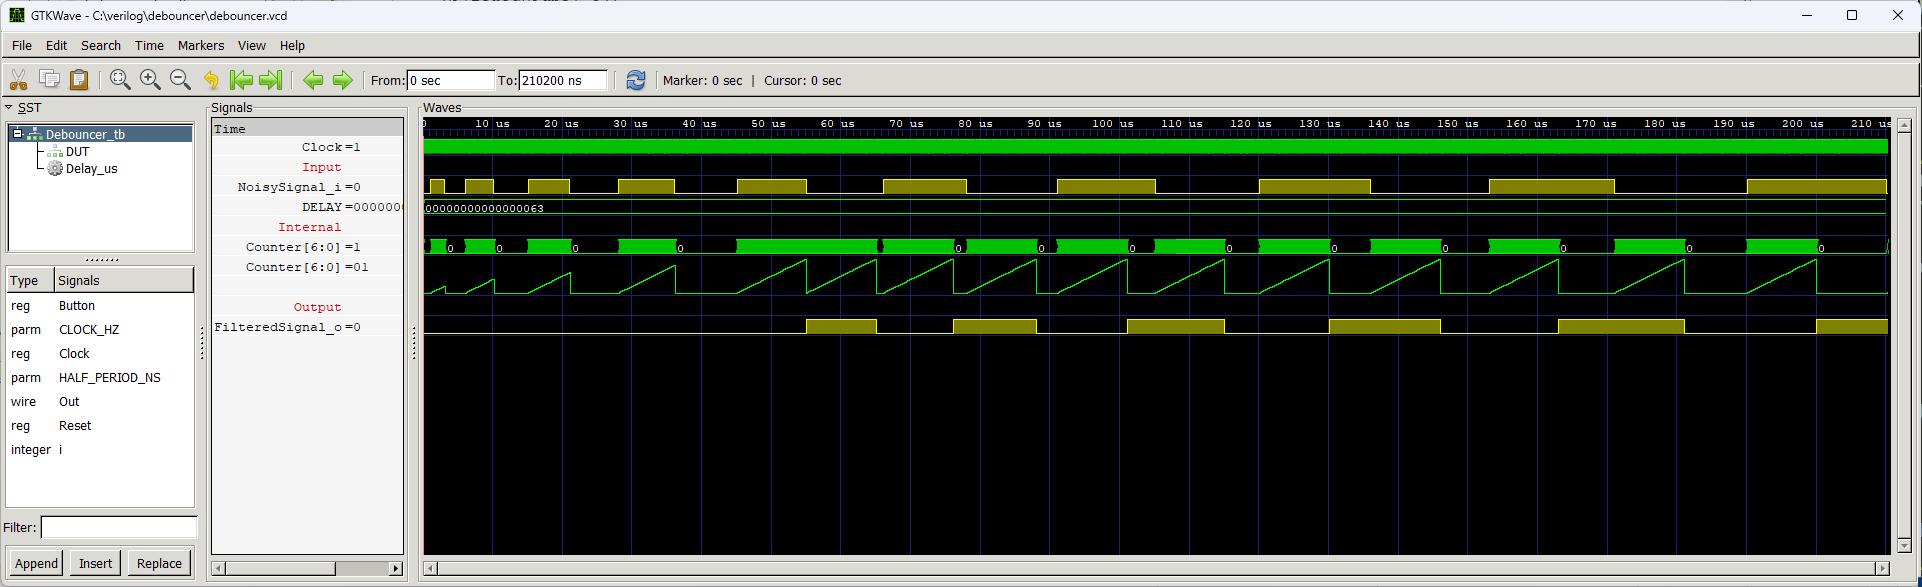
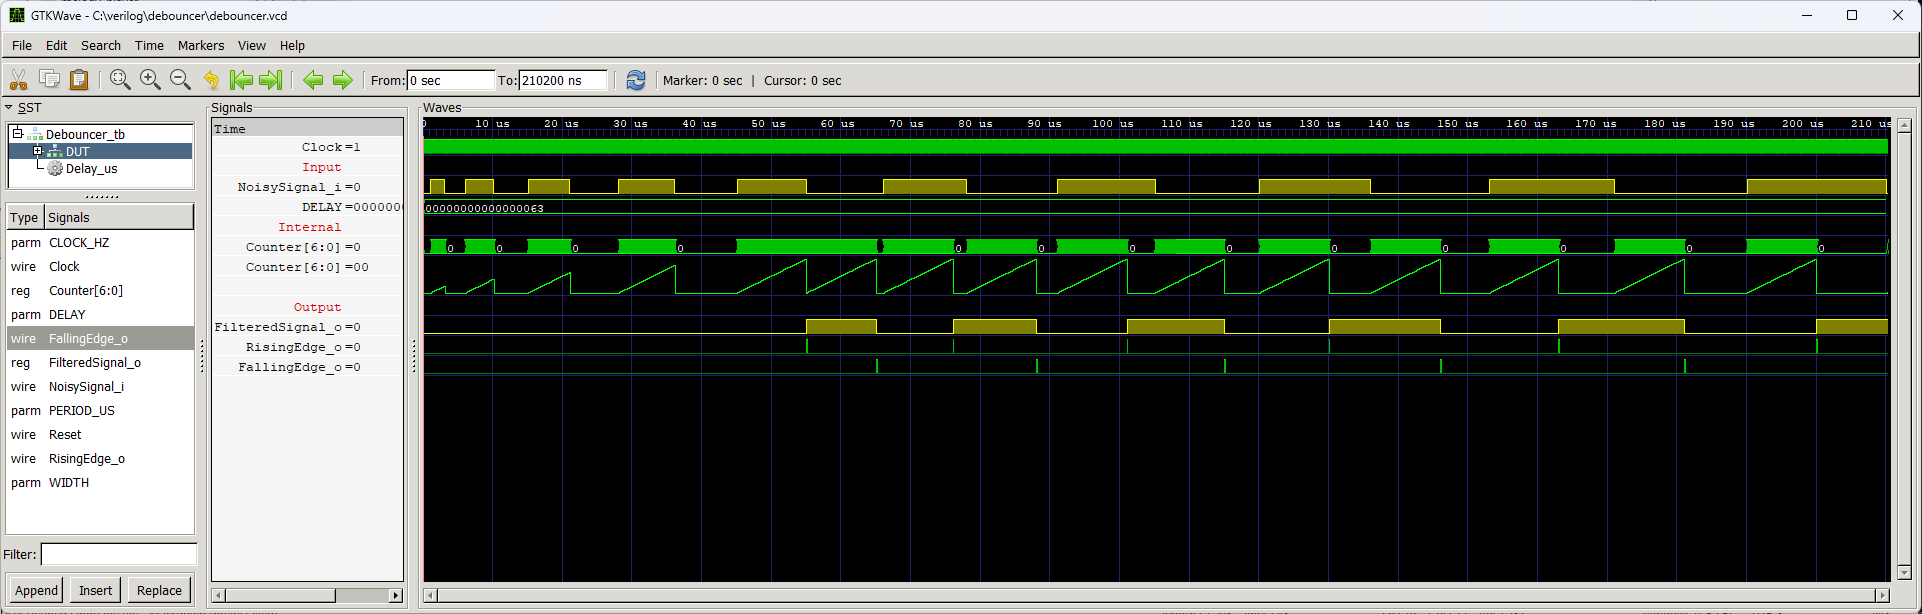
Added edge detection to filtered signal

diff --git a/debouncer/readme.md b/debouncer/readme.md
@@ -14,7 +14,9 @@ A module used to filter the vibration of mechanical button contacts. After chang
 		.Clock(Clock),
 		.Reset(Reset),
 		.NoisySignal_i(),
-		.FilteredSignal_o()
+		.FilteredSignal_o(),
+		.RisingEdge_o(),
+		.FallingEdge_o()
 	);
 ```
 
@@ -26,6 +28,8 @@ A module used to filter the vibration of mechanical button contacts. After chang
 + **Reset** - Asynchronous reset, active low.
 + **NoisySignal_i** - Not filtered signal directly from a button or other mechanical switch.
 + **FilteredSignal_o** - Filtered signal without glitches.
++ **RisingEdge_o** - A high state means that a rising edge has been detected in the signal under test.
++ **FallingEdge_o** - A high state means that a falling edge has been detected in the signal under test.
 
 ## Simulation
 
